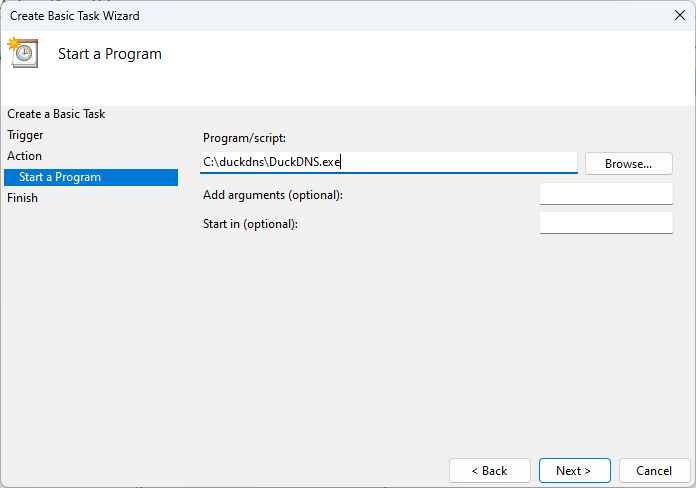
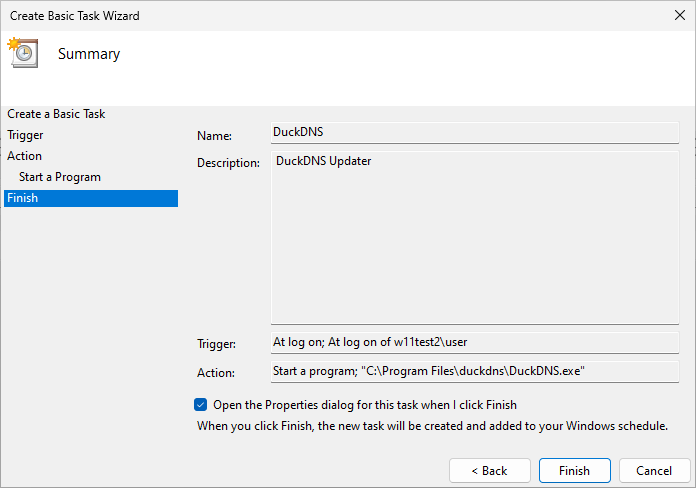
Change DuckDNS install path
Change DuckDNS install path to be under C:\Program Files per recommendation by nielsvanvelzen

diff --git a/docs/general/quick-start/windows.md b/docs/general/quick-start/windows.md
@@ -173,11 +173,11 @@ A reverse proxy is a server that sits in front of other services and forwards cl
     ![duckdns dashboard](/images/docs/quick-start/windows/ddns-1.png)
 
 3. Download the latest Windows C# client zip from [its Github releases page](https://github.com/XWolfOverride/DuckDNS/releases)
-4. Create a new subfolder under `C:\` and name it `duckdns`
+4. Create a new subfolder under `C:\Program Files` and name it `duckdns`
 
     ![duckdns folder](/images/docs/quick-start/windows/ddns-2.png)
 
-5. Unzip the downloaded file and move the `DuckDNS.exe` into the folder
+5. Unzip the downloaded file and move the `DuckDNS.exe` into the folder. Confirm the operation if prompted.
 
     ![duckdns exe](/images/docs/quick-start/windows/ddns-3.png)
 
@@ -196,7 +196,7 @@ A reverse proxy is a server that sits in front of other services and forwards cl
 11. Enter a descriptive Name and a description, one that you can identify in the future and click next
 12. Choose `When I log on` for the Task Trigger and click Next
 13. Choose `Start a program` for the Action
-14. Enter `C:\duckdns\DuckDNS.exe` in the Program/script field
+14. Enter `C:\Program Files\duckdns\DuckDNS.exe` in the Program/script field
 
     ![create duckdns task](/images/docs/quick-start/windows/ddns-6.png)
 
